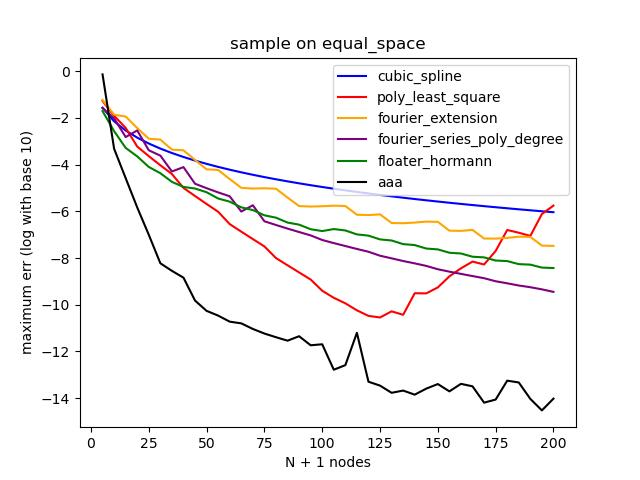
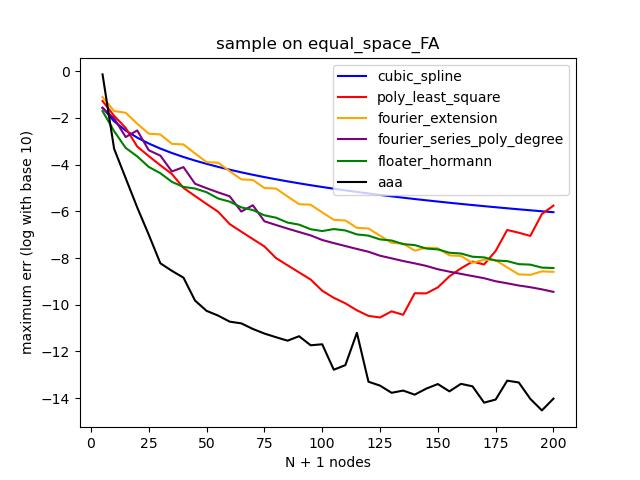
final report

Changed region(s): [[0.4375, 0.4062, 0.875, 0.5938], [0.3438, 0.0625, 0.6875, 0.125], [0.1562, 0.1875, 0.4375, 0.4062]]

diff --git a/final/programming.py b/final/programming.py
@@ -77,8 +77,8 @@ _sample_method = 'equal_space'
 # _sample_method = 'chebyshev'
 
 name_map = {FA:"FA", FB:"FB", FC:"FC", FD:"FD", FE:"FE"}
-# for f in [FA, FB, FC, FD, FE]:
-for f in [FC, FD, FE]:
+for f in [FA, FB, FC, FD, FE]:
+# for f in [FC, FD, FE]:
     _e = []
     for _m in Method:
         _e.append(sample_interpolate(_sample_method, _m, _range, f))

diff --git a/final/report.md b/final/report.md
@@ -1,0 +1,130 @@
+# AAA algorithm equispaced
+
+[TOC]
+
+----
+## Introduction
+This paper proposes AAA rational approximation for interpolating smooth functions from equispaced data, demonstrating superior accuracy compared to existing methods. Through numerical experiments on various test functions, the authors show AAA typically converges twice as fast as alternatives and is particularly effective at exploiting analytic structure such as poles and branch points. The method balances the fundamental tradeoff between accuracy and stability in equispaced approximation, though it may encounter issues with unwanted poles. Theoretical analysis connects these results to the impossibility theorem for equispaced approximation.
+
+### AAA approximation
+AAA (Adaptive Antoulas-Anderson) approximation is a greedy algorithm that constructs rational function approximations (ratios of polynomials) to data. It iteratively selects support points and builds a barycentric representation, achieving high accuracy with relatively low degree. 
+See more details in [midterm project](https://github.com/alter027/Introduction2ScientificComputing/blob/main/midterm/report.md).
+
+### Impossibility theorem
+The impossibility theorem for equispaced approximation states that exponential convergence and stability cannot be achieved simultaneously when approximating analytic functions from equispaced samples. Exponentially accurate approximations must be exponentially unstable as the number of sample points increases. Conversely, stable algorithms can only achieve root-exponential convergence at best, creating an unavoidable accuracy-stability tradeoff.
+
+### An example
+Consider polynomial least-squares approximation of the function $f(x) = \sqrt{1.21 - x²}$ from equispaced points [demonstration of impossibility theorem](https://claude.ai/public/artifacts/2d970bbe-a04a-4460-bd88-509327af46be):
+
+- With well-conditioned basis (Chebyshev polynomials): 
+$${1, x, x^2, x^3, ..., x^n}$$ The method achieves exponential accuracy initially, approximating the function to very high precision. However, it also becomes exponentially unstable-errors eventually grow at rate $\sim(1.14)^n$ due to amplification of rounding errors, causing the approximation to diverge catastrophically for large n.
+- With ill-conditioned basis (monomials): 
+$${T_0(x), T_1(x), T_2(x), ..., T_n(x)}$$ Rounding errors naturally regularize the problem, preventing both exponential accuracy and exponential instability. The method becomes stable but loses exponential convergence.
+
+The theorem's core principle: you can have exponential accuracy with exponential instability, or stability with slower convergence, but not both simultaneously.
+
+## 6 Methods
+- **Cubic Splines**
+    - **Convergence**: O(n⁻⁴) algebraic rate
+    - **Stability**: Rock-solid stable
+    - **Characteristics**: 
+      - Piecewise polynomials with C² continuity
+      - No Gibbs oscillations at boundaries
+      - Slowest convergence but most predictable
+      - Never unstable, never suffers from Runge phenomenon
+- **Polynomial Least-Squares** (γ=2)
+    - **Convergence**: Initially exponential, then diverges
+    - **Stability**: Exponentially unstable O(1.14ⁿ) for γ=2
+    - **Characteristics**:
+      - Uses Chebyshev polynomial basis (well-conditioned)
+      - Degree d ≈ n/2 (oversampling ratio γ=2)
+      - Exponentially accurate AND exponentially unstable
+      - Implementation-dependent: monomial basis cuts off both accuracy and instability
+
+- **Fourier Extension to [-2,2]** (γ=2)
+    - **Convergence**: Root-exponential
+    - **Stability**: Stable (due to ill-conditioned basis)
+    - **Characteristics**:
+      - Approximates f by Fourier series on larger domain [-T,T]
+      - Uses complex exponential basis (ill-conditioned)
+      - Rounding errors provide implicit regularization
+      - Implementation-dependent: Vandermonde-Arnoldi makes it exponentially accurate/unstable
+
+- **Fourier + Low Degree Polynomial** (γ=2)
+    - **Convergence**: Root-exponential
+    - **Stability**: Stable
+    - **Characteristics**:
+      - Combines Fourier series with polynomial term of degree ~√n
+      - Boundary corrections mitigate discontinuity effects
+      - Algebraic convergence with arbitrary order possible
+      - Neither exponentially accurate nor exponentially unstable
+
+- **Floater-Hormann: 'equi'**
+    - **Convergence**: Root-exponential (adaptively determined)
+    - **Stability**: Stable
+    - **Characteristics**:
+      - Rational interpolation in barycentric form
+      - Degree n-1 with adaptive accuracy order
+      - Guaranteed pole-free in [-1,1]
+      - Robust but doesn't exploit analytic structure
+      - Matches AAA for "difficult" functions (e.g., amber function)
+
+- **AAA**
+    - **Convergence**: Typically 2x faster than other methods
+    - **Stability**: Stable (barycentric representation)
+    - **Characteristics**:
+      - Nonlinear rational approximation
+      - Exploits analytic structure (poles, branch points)
+      - Numerical interpolant (≤10⁻¹³ error on grid)
+      - Can produce unwanted poles in [-1,1] for real functions
+      - Best for functions with hidden analytic structure
+      - Degree typically << n/2 due to adaptive oversampling
+
+### Complexity
+| Method | Construction | Evaluation (single point) | Evaluation (m points) | Storage |
+|--------|-------------|--------------------------|----------------------|---------|
+| Cubic Splines | O(n) | O(log n) | O(m log n) | O(n) |
+| Polynomial Least-Squares | O(nd²) | O(d) | O(md) | O(d) |
+| Fourier Extension | O(nd) | O(d) | O(md) | O(d) |
+| Fourier + Polynomial | O(nd) | O(d) | O(md) | O(d) |
+| Floater-Hormann | O(n²d) | O(n) | O(mn) | O(n) |
+| AAA | O(nd³) | O(d²) | O(md²) | O(d) |
+
+where: n = number of sample points, d = degree of approximant, m = number of evaluation points
+
+## Implementation in the paper
+
+### Comparison betweem Methods
+| Method | √(1.21-x²) | √(0.01+x²) | tanh(5x) | sin(40x) | exp(-1/x²) |
+|--------|-----------|-----------|----------|----------|------------|
+| Cubic Splines | O(n⁻⁴) | O(n⁻⁴) | O(n⁻⁴) | O(n⁻⁴) | O(n⁻⁴) |
+| Poly LS | Good→Unstable | Poor→Unstable | Good→Unstable | Good→Unstable | Poor→Unstable |
+| Fourier Ext | Good | Good | Good | Good | Moderate |
+| Fourier+Poly | Moderate | Moderate | Moderate | Moderate | Moderate |
+| FH 'equi' | Very Good | Very Good | Good | Very Good | Very Good |
+| **AAA** | **Best** | **Best** | **Exceptional** | **Best** | **Best** |
+
+## Analysis
+### Impossibility Theorem
+- The impossibility theorem states that exponential accuracy in approximating analytic functions from equispaced samples is only possible if the algorithm also exhibits exponential instability.
+- Conversely, any stable algorithm can achieve at best root-exponential convergence with the form $||f-rₙ|| = exp(-C√n)$, where C > 0 is a constant.
+- AAA circumvents this fundamental limitation through its use of adaptive oversampling and its nonlinear nature, which allows it to adjust the degree independently of the number of sample points.
+
+### Why AAA Wins
+1. **Exploits analytic structure**: AAA can identify and capture poles in meromorphic functions like tanh(5x), as well as efficiently approximate functions with branch point singularities like √(1.21-x²).
+2. **Adaptive degree selection**: Unlike methods that use a degree tied to n, AAA adaptively selects a degree much lower than n/2, often finding that very low-degree rational functions suffice when analytic structure is present.
+3. **Numerical interpolation philosophy**: By matching the data to a tolerance of 10⁻¹³ rather than interpolating exactly, AAA gains robustness against the exponential instabilities that plague exact high-degree polynomial interpolation.
+4. **Barycentric form stability**: The use of barycentric representation for rational functions provides excellent numerical stability, avoiding many of the conditioning issues that arise with other representations.
+
+## Result of the implementation from my side
+Implemented by Python [here](https://github.com/alter027/Introduction2ScientificComputing/tree/main/final), the trend is consistent with the results of the paper.
+|Function|Result|
+|---|---|
+|√(1.21-x²)|<img src=_result/equal_space_all_FA.jpg width="400"/>|
+|√(0.01+x²)|<img src=_result/equal_space_all_FB.jpg width="400"/>|
+|tanh(5x)|<img src=_result/equal_space_all_FC.jpg width="400"/>|
+|sin(40x)|<img src=_result/equal_space_all_FD.jpg width="400"/>|
+|exp(-1/x²)|<img src=_result/equal_space_all_FE.jpg width="400"/>|
+
+## Conclusion
+AAA algorithm achieves near-exponential convergence on equispaced data by adaptively selecting support points in a greedy, nonlinear rational approximation process that exploits analytic structures like poles and branch points, often converging twice as fast as linear methods. It maintains stability through barycentric representation and a numerical interpolation tolerance (e.g., 10^{-13}), avoiding high-degree exact interpolation that triggers exponential instability as dictated by the impossibility theorem.
